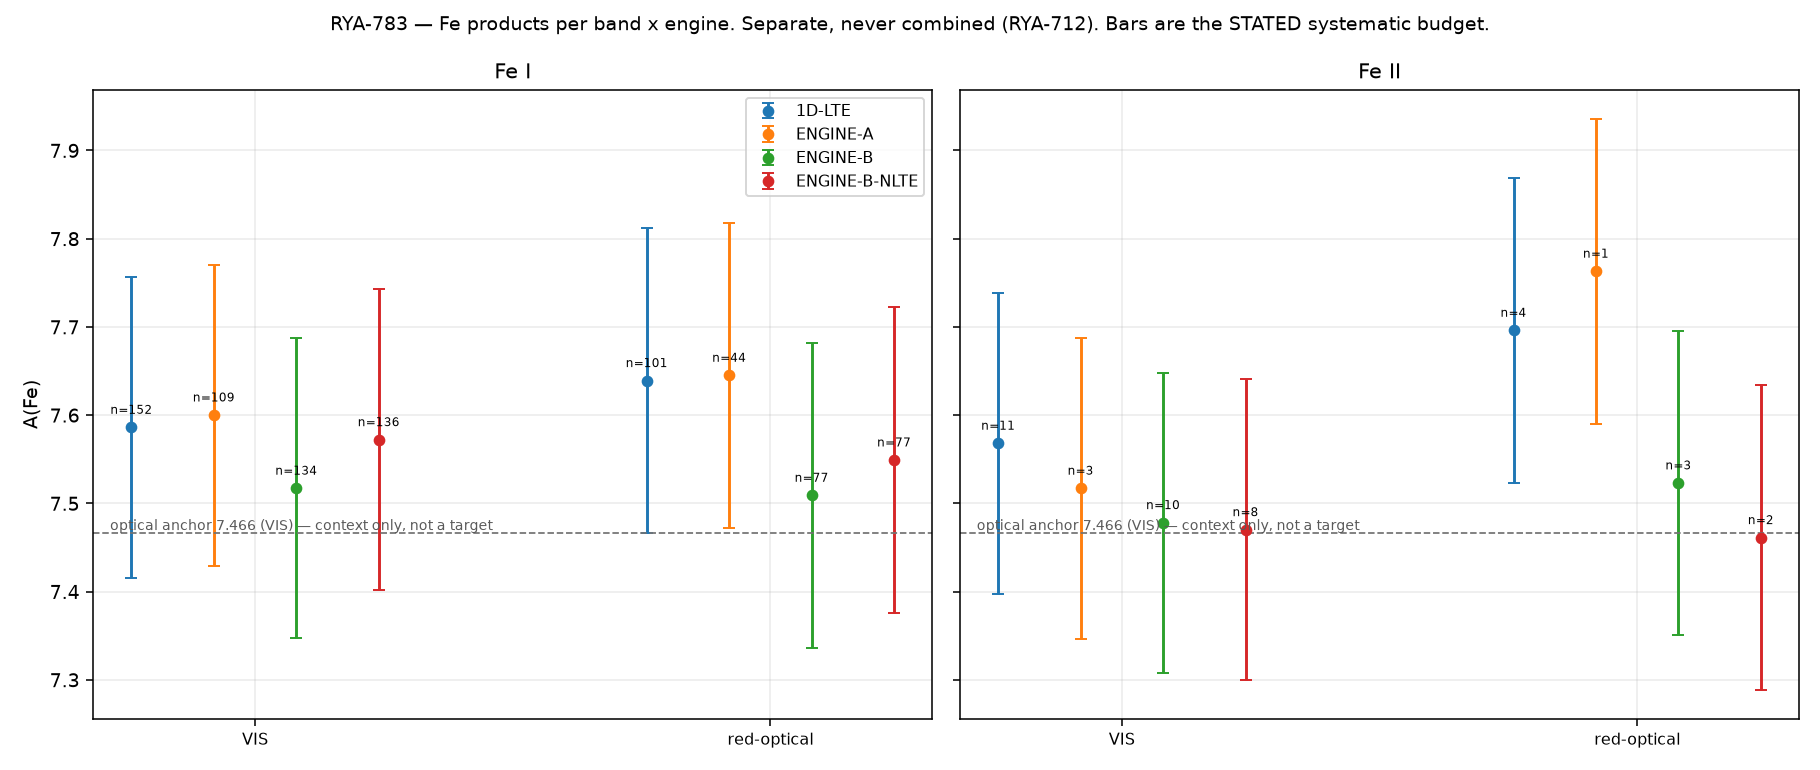
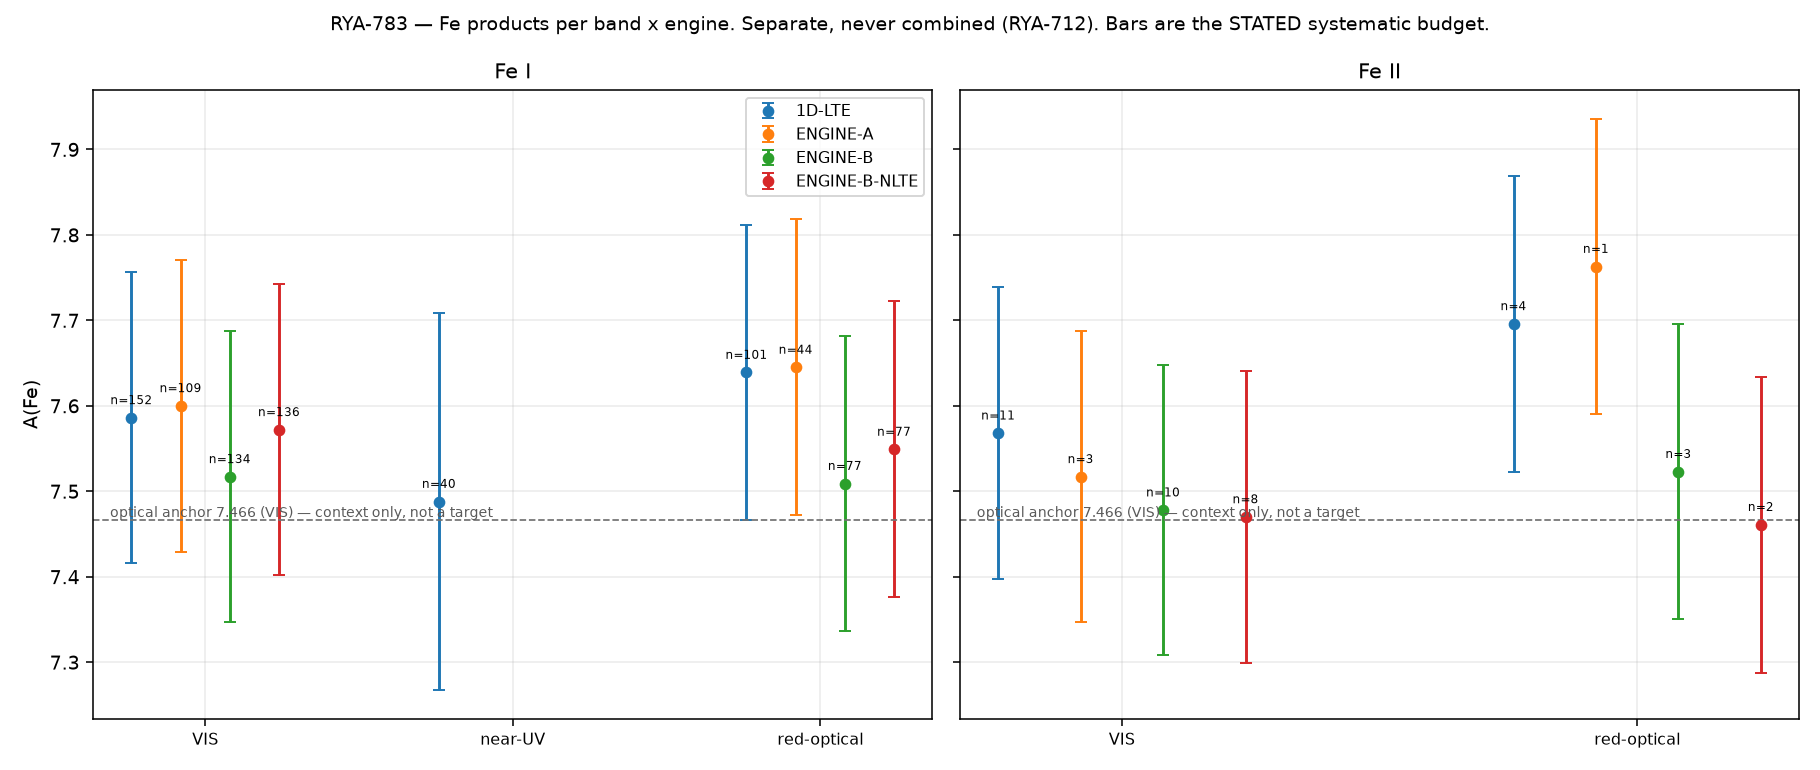
RYA-832: the near-UV Fe cell is first-class in the frontier matrix
A(Fe I; near-UV, 1D-LTE) = 7.488 +/- 0.413 (n=40, 0 excluded), stat 0.0652 /
syst 0.2211, dominant "gf scale (UNGRADED)". That reproduces RYA-759's published
7.4875 to rounding on the same 40 lines -- by construction, because the route CALLS
759's `select_lines`/`fit_one` and `pipeline.nearuv_synth`'s
`build_solar_context`/`gf_provenance` with 759's own defaults rather than
reimplementing them. A hand-adapted copy would keep its source's identity in places
nobody looks (RYA-701) and would let the value drift silently; calling the same
functions makes drift impossible.

The sigma differs from 759's published MAD because `build_product` reports the line
SCATTER (std, ddof=1) that every other band cell reports. Same lines, different
dispersion statistic -- stated in the run output rather than left to be discovered.

MATRIX DIFF (spec item 4, the whole point): regenerating produced EXACTLY ONE added
row and moved no existing cell. 16 -> 17 product rows.

REGISTER AND TRACKER ARE UNAFFECTED, AND THAT IS PROVED RATHER THAN ARGUED:
check_register_freshness reports 0 state surfaces changed, and phase_c_verdict_rya371
contains ZERO references to band_products or the matrix -- a band product is not a
phase_c input, so the tracker cannot move. No register bump is owed.

TWO DEFECTS CAUGHT BY LOOKING AT THE OUTPUT RATHER THAN TRUSTING THE RUN:

1. My first draft RECONSTRUCTED 759's setup instead of calling it, and had already
[…]

diff --git a/tests/test_nearuv_first_class_rya832.py b/tests/test_nearuv_first_class_rya832.py
@@ -1,0 +1,134 @@
+"""
+tests/test_nearuv_first_class_rya832.py — RYA-832
+=================================================
+The near-UV Fe product is derived by SYNTHESIS, because equivalent-width measurement is
+undefined in that band — `pipeline.band_policy` forbids profile-fit and
+interval-integration in 3000-3800 A, and RYA-759 falsified profile fitting there in
+practice (901 candidates, 0 measurable). Wiring it into the EW-keyed driver therefore
+needed a second route, and this file pins the three things that route can get wrong
+without anyone noticing:
+
+  * it takes the wrong branch — the near-UV silently falls into the EW path, which then
+    fails on a missing EW file that is missing BY DESIGN;
+  * it emits the wrong SCHEMA — the cell reaches the matrix carrying `n=40` and a NaN
+    abundance, which reads as a measurement that failed rather than a wiring mismatch.
+    That happened on the first run of this route;
+  * it drifts from RYA-759's configuration, so the wired value stops being the published
+    one. The route defends against this by CALLING 759's functions rather than copying
+    them, and the constants below are asserted to still match what 759 used.
+
+The synthesis itself is not exercised here — it needs iSpec and Turbospectrum, which live
+on Sirius. What is exercised is the routing and the output contract, which is where the
+wiring bugs live.
+"""
+from __future__ import annotations
+
+import sys
+from pathlib import Path
+
+import pytest
+
+ROOT = Path(__file__).resolve().parents[1]
+sys.path.insert(0, str(ROOT))
+sys.path.insert(0, str(ROOT / "scripts"))
+
+from pipeline.band_policy import resolve as resolve_band  # noqa: E402
+
+
+# ── the routing decision ──────────────────────────────────────────────────────
+
+def test_the_near_uv_band_forbids_the_ew_route_and_permits_synthesis():
+    """The routing predicate the driver branches on. If the policy ever stopped
+    forbidding profile-fit here, the driver would silently go back to the EW path."""
+    pol = resolve_band(0.5 * (3000.0 + 3780.0))
+    assert "profile-fit" in pol.forbidden_methods
+    assert "interval-integration" in pol.forbidden_methods
+    assert "synthesis" in pol.permitted_methods
+
+
+def test_the_optical_and_ir_bands_still_take_the_ew_route():
+    """The branch must not swallow the bands it was never meant to touch — this is the
+    positive control for the routing predicate."""
+    for mid in (0.5 * (3800.0 + 6910.0), 0.5 * (6910.0 + 9199.0)):
+        pol = resolve_band(mid)
+        assert "profile-fit" not in getattr(pol, "forbidden_methods", ())
+
+
+# ── the output contract ───────────────────────────────────────────────────────
+
+def test_the_products_schema_matches_what_the_matrix_reads():
+    """THE BUG THIS FILE EXISTS FOR. `products_frame` emits `value`; the matrix reads
+    `A`. The first run of this route wrote the wrong one and the near-UV cell landed in
+    the matrix with n=40 and a NaN abundance — present, and empty."""
+    import derive_band_products as dbp
+    src = Path(dbp.__file__).read_text()
+    route = src[src.index("def synthesis_route"):src.index("def asdict_line")]
+    for col in ("A=", "stat_dex=", "syst_dex=", "n_lines=", "n_excluded=",
+                "band=", "treatment="):
+        assert col in route, f"the synthesis route does not emit {col!r}"
+    assert "products_frame([product]).to_csv" not in route, (
+        "the route writes products_frame's schema again — the matrix cannot read it")
+
+
+def test_the_route_carries_the_759_pseudo_continuum_systematic():
+    """RYA-759's 0.100 dex does NOT average down and is NOT in the line scatter, so it
+    has to be in the budget rather than in prose."""
+    import derive_band_products as dbp
+    assert dbp.NEARUV_PSEUDO_CONTINUUM_DEX == 0.100
+
+
+def test_the_route_still_uses_759s_own_configuration():
+    """Drift guard on the numbers the ticket forbids moving. These are 759's defaults;
+    if any changes, the wired value stops being the published 7.487 and the change must
+    be deliberate and stated."""
+    import derive_band_products as dbp
+    assert dbp.NEARUV_HALF_WIDTH_A == 0.40
+    assert dbp.NEARUV_MIN_SEP_A == 4.0
+    assert dbp.NEARUV_N_LINES == 40
+
+
+def test_the_route_reuses_759s_functions_rather_than_copying_them():
+    """A hand-adapted copy keeps its source's identity in places nobody looks (RYA-701:
+    one Ba->Al copy produced 13 defects) and would let the value drift silently. The
+    route must IMPORT the validated pieces."""
+    import derive_band_products as dbp
+    src = Path(dbp.__file__).read_text()
+    route = src[src.index("def synthesis_route"):src.index("def asdict_line")]
+    assert "from rya759_nearuv_fe_product import" in route
+    assert "select_lines" in route and "fit_one" in route
+    assert "from pipeline.nearuv_synth import" in route
+
+
+def test_the_route_loud_fails_rather_than_emitting_an_empty_product():
+    """A missing line list must stop the run. Emitting a 0-line product would reach the
+    matrix as a real cell reporting nothing, which is indistinguishable from a physics
+    result. (Verified live: the first Sirius run refused exactly this way.)"""
+    import derive_band_products as dbp
+    src = Path(dbp.__file__).read_text()
+    route = src[src.index("def synthesis_route"):src.index("def asdict_line")]
+    assert "raise SystemExit" in route
+    assert "Refusing to emit an" in route
+
+
+def test_the_matrix_report_no_longer_claims_the_near_uv_is_underivable():
+    """The report used to print 'NOT derivable by this route ... RYA-759, which is not
+    merged'. Every clause is now false. A report describing a state the repo left behind
+    is the defect class this project keeps paying for."""
+    txt = (ROOT / "scripts" / "rya783_fe_matrix_report.py").read_text()
+    # Check what the report PRINTS, not what the file contains. The removal comment
+    # legitimately quotes the old wording so a reader knows what changed and why, and a
+    # cruder assertion over the whole file flagged that comment — which would have
+    # pressured me to delete the explanation to make a test pass.
+    printed = "\n".join(l for l in txt.splitlines() if l.strip().startswith("print("))
+    assert "which is not merged" not in printed
+    assert "NOT derivable by this route" not in printed
+    assert "is DERIVED and first-class" in printed
+
+
+def test_the_near_uv_cell_is_never_coadded_with_another_band():
+    """RYA-712: the atomic unit is per-band. `band_products` has no combine() and must
+    not grow one."""
+    import pipeline.band_products as bp
+    assert not hasattr(bp, "combine")
+    src = Path(bp.__file__).read_text()
+    assert "def combine(" not in src
